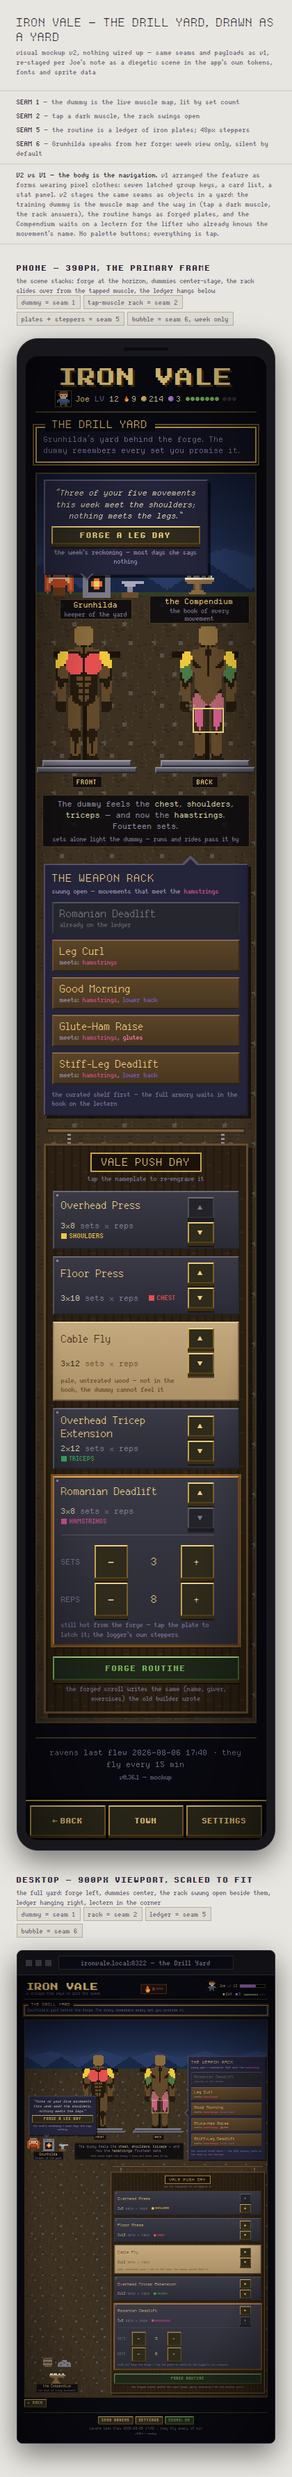
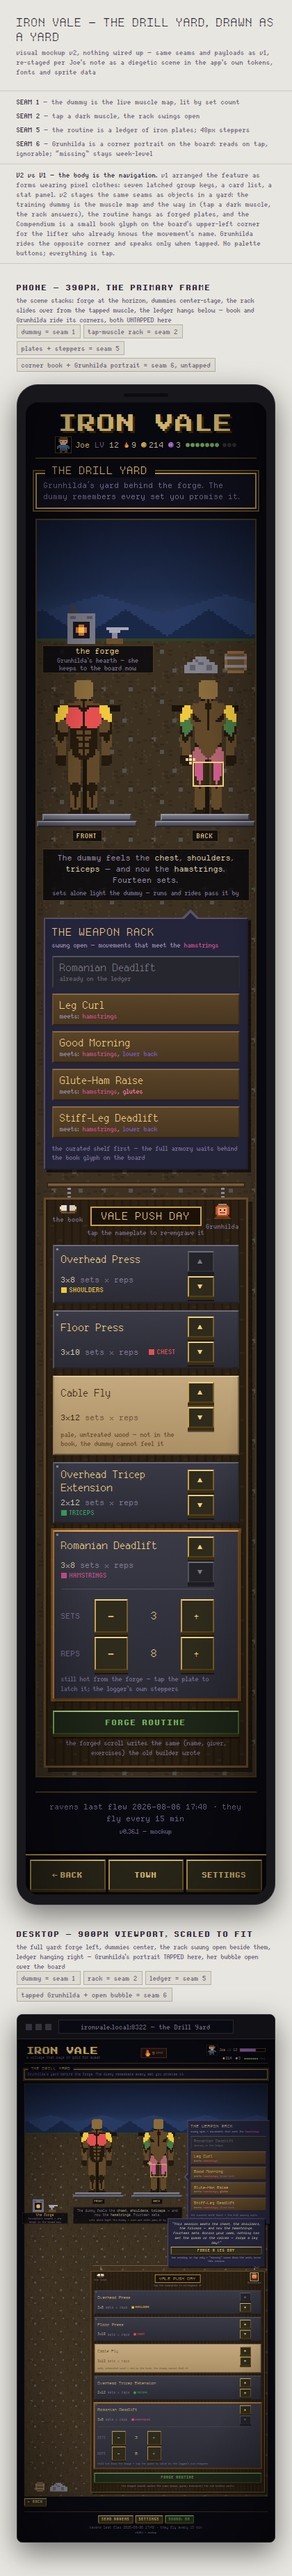
Refine scene mockup per review: corner book + tappable Grunhilda
Per Joe's 2026-08-06 review: the Compendium shrinks to a book glyph on the
board's upper-left and Grunhilda becomes a tap-only portrait opposite it.

Changed region(s): [[0.031, 0.0, 0.9595, 0.998], [0.0929, 0.9357, 0.2786, 0.998]]

diff --git a/docs/mockups/routine-builder-scene.html b/docs/mockups/routine-builder-scene.html
@@ -191,13 +191,14 @@ body { margin:0; background:var(--wall); color:var(--note); font-family:'quanta-
 @keyframes glintBlink { 0% { opacity:1; } 50% { opacity:0.25; } }
 
 /* Grunhilda's bubble — the fenn-bubble idiom from town.js/style.css.
-   It floats in the sky above her, tail down, like the town's deed bubbles. */
-.iv .gbubble-wrap { position:absolute; top:8px; left:10px; z-index:50; width:236px; max-width:78vw; }
+   TAPPED STATE ONLY: it opens anchored to her portrait glyph on the board's
+   upper-right corner, tail pointing down at her. Untapped, there is no bubble. */
+.iv .gbubble-wrap { position:absolute; right:0; bottom:calc(100% - 8px); z-index:50; width:340px; max-width:92vw; }
 .iv .gbubble { position:relative; padding:9px 9px 10px; background:var(--surface-raised); border:2px solid;
   border-color:var(--edge-lit) var(--edge-shade) var(--edge-shade) var(--edge-lit); box-shadow:4px 4px 0 rgba(0,0,0,0.6); }
-.iv .gbubble::after, .iv .gbubble::before { content:''; position:absolute; top:100%; left:26%; border:10px solid transparent; }
-.iv .gbubble::after { border-top-color:var(--edge-lit); margin-left:-10px; }
-.iv .gbubble::before { border-top-color:var(--surface-raised); margin-left:-8px; border-width:8px; margin-top:-1px; z-index:1; }
+.iv .gbubble::after, .iv .gbubble::before { content:''; position:absolute; top:100%; border:10px solid transparent; }
+.iv .gbubble::after { border-top-color:var(--edge-lit); left:auto; right:16px; }
+.iv .gbubble::before { border-top-color:var(--surface-raised); left:auto; right:18px; border-width:8px; margin-top:-1px; z-index:1; }
 .iv .gbubble .fb-line { display:block; font-style:italic; color:var(--ink); font-family:var(--font-body); font-size:var(--type-body);
   line-height:1.35; text-align:center; margin-bottom:7px; }
 .iv .gbubble .btn { display:block; width:100%; }
@@ -235,8 +236,16 @@ body { margin:0; background:var(--wall); color:var(--note); font-family:'quanta-
 .iv .ledger-beam { height:8px; margin:0 4px; background:linear-gradient(180deg,#8a6a40,#5a4428); border:2px solid #34251a; }
 .iv .ledger-hang { display:flex; justify-content:space-between; padding:0 34px; height:14px; }
 .iv .ledger-hang i { width:5px; height:100%; background:repeating-linear-gradient(180deg,#8a8a9a 0 3px, rgba(0,0,0,0) 3px 6px); }
-.iv .board { border:3px solid #6a4e2c; background-color:#2b2013; box-shadow:6px 6px 0 rgba(0,0,0,0.5); padding:10px 10px 12px; }
-.iv .board-name { text-align:center; margin:0 auto 4px; }
+.iv .board { position:relative; border:3px solid #6a4e2c; background-color:#2b2013; box-shadow:6px 6px 0 rgba(0,0,0,0.5); padding:10px 10px 12px; }
+/* corner glyphs on the board — the same weight class as the app's ✕ close
+   glyphs (style.css .lens-box-close: absolute, top:4px, bare, fine padding) */
+.iv .board-glyph { position:absolute; top:4px; background:none; border:none; padding:2px 4px; cursor:pointer; line-height:0; text-align:center; z-index:2; }
+.iv .board-glyph.glyph-book { left:6px; }
+.iv .board-glyph.glyph-grun { right:6px; }
+.iv .board-glyph .g-cap { display:block; margin-top:2px; font-family:var(--font-fine); font-size:var(--type-fine); color:var(--dim); letter-spacing:0.5px; line-height:1.2; }
+.iv .board-glyph:hover .g-cap { color:var(--gold-bright); }
+.iv .board-glyph.tapped canvas { outline:2px solid var(--gold-bright); outline-offset:1px; }
+.iv .board-name { text-align:center; margin:0 auto 4px; padding-inline:44px; }
 .iv .board-name .np { display:inline-block; border:2px solid var(--gold); background:#1a1208; color:var(--gold-bright);
   font-family:var(--font-title); font-size:var(--type-title); letter-spacing:1px; text-transform:uppercase; padding:3px 14px; }
 .iv .board-name .fine { display:block; margin-top:3px; color:var(--dim); }
@@ -272,15 +281,13 @@ body { margin:0; background:var(--wall); color:var(--note); font-family:'quanta-
 .iv .floor { margin-top:16px; position:relative; }
 .iv-phone .floor .rack { margin:24px 2px 0; }
 .iv-phone .floor .ledger { margin:18px 2px 0; }
-.iv-phone .lectern-shift { transform:translateY(6px); }
-.iv-desktop .stage-row { display:flex; justify-content:center; align-items:flex-end; gap:14px; margin-top:-52px; position:relative; z-index:2; }
+.iv-desktop .stage-row { display:flex; justify-content:center; align-items:flex-end; gap:18px; margin-top:-52px; position:relative; z-index:2; }
 .iv-desktop .stage-row .forge-spot { flex-shrink:0; }
 .iv-desktop .stage-row .stage { margin-top:0; }
-.iv-desktop .floor { display:grid; grid-template-columns:210px minmax(0,1fr); gap:0 18px; align-items:end; margin-top:20px; }
-.iv-desktop .floor .ledger { max-width:540px; justify-self:end; width:100%; }
-.iv-desktop .gbubble-wrap { top:265px; left:14px; }
+.iv-desktop .floor { display:grid; grid-template-columns:170px minmax(0,1fr); gap:0 18px; align-items:end; margin-top:142px; position:relative; z-index:3; }
+.iv-desktop .floor .ledger { max-width:610px; justify-self:end; width:100%; }
 .iv-desktop .corner-props { text-align:center; padding-bottom:4px; }
-.iv-desktop .corner-props .prop-row { display:flex; justify-content:center; align-items:flex-end; gap:10px; margin-bottom:14px; }
+.iv-desktop .corner-props .prop-row { display:flex; justify-content:center; align-items:flex-end; gap:10px; }
 </style>
 
 <header class="mock-head">
@@ -291,18 +298,18 @@ body { margin:0; background:var(--wall); color:var(--note); font-family:'quanta-
   <span><b>SEAM 1</b> — the dummy is the live muscle map, lit by set count</span>
   <span><b>SEAM 2</b> — tap a dark muscle, the rack swings open</span>
   <span><b>SEAM 5</b> — the routine is a ledger of iron plates; 48px steppers</span>
-  <span><b>SEAM 6</b> — Grunhilda speaks from her forge: week view only, silent by default</span>
+  <span><b>SEAM 6</b> — Grunhilda is a corner portrait on the board: reads on tap, ignorable; &ldquo;missing&rdquo; stays week-level</span>
 </div>
-<div class="vnote"><b>V2 vs V1 — the body is the navigation.</b> v1 arranged the feature as forms wearing pixel clothes: seven latched group keys, a card list, a stat panel. v2 stages the same seams as objects in a yard: the training dummy is the muscle map and the way in (tap a dark muscle, the rack answers), the routine hangs as forged plates, and the Compendium waits on a lectern for the lifter who already knows the movement's name. No palette buttons; everything is tap.</div>
+<div class="vnote"><b>V2 vs V1 — the body is the navigation.</b> v1 arranged the feature as forms wearing pixel clothes: seven latched group keys, a card list, a stat panel. v2 stages the same seams as objects in a yard: the training dummy is the muscle map and the way in (tap a dark muscle, the rack answers), the routine hangs as forged plates, and the Compendium is a small book glyph on the board's upper-left corner for the lifter who already knows the movement's name. Grunhilda rides the opposite corner and speaks only when tapped. No palette buttons; everything is tap.</div>
 
 <div class="frames">
 
   <section class="station phone-station">
     <div class="station-head">
       <div class="st-title">Phone — 390px, the primary frame</div>
-      <div class="st-sub">the scene stacks: forge at the horizon, dummies center-stage, the rack slides over from the tapped muscle, the ledger hangs below</div>
+      <div class="st-sub">the scene stacks: forge at the horizon, dummies center-stage, the rack slides over from the tapped muscle, the ledger hangs below &mdash; book and Grunhilda ride its corners, both UNTAPPED here</div>
       <div class="tag-chips">
-        <span>dummy = seam 1</span><span>tap-muscle rack = seam 2</span><span>plates + steppers = seam 5</span><span>bubble = seam 6, week only</span>
+        <span>dummy = seam 1</span><span>tap-muscle rack = seam 2</span><span>plates + steppers = seam 5</span><span>corner book + Grunhilda portrait = seam 6, untapped</span>
       </div>
     </div>
     <div class="phone-bezel">
@@ -315,9 +322,9 @@ body { margin:0; background:var(--wall); color:var(--note); font-family:'quanta-
   <section class="station desktop-station">
     <div class="station-head">
       <div class="st-title">Desktop — 900px viewport, scaled to fit</div>
-      <div class="st-sub">the full yard: forge left, dummies center, the rack swung open beside them, ledger hanging right, lectern in the corner</div>
+      <div class="st-sub">the full yard: forge left, dummies center, the rack swung open beside them, ledger hanging right &mdash; Grunhilda's portrait TAPPED here, her bubble open over the board</div>
       <div class="tag-chips">
-        <span>dummy = seam 1</span><span>rack = seam 2</span><span>ledger = seam 5</span><span>bubble = seam 6</span>
+        <span>dummy = seam 1</span><span>rack = seam 2</span><span>ledger = seam 5</span><span>tapped Grunhilda + open bubble = seam 6</span>
       </div>
     </div>
     <div class="gutter gutter-l" id="gutter-desktop"></div>
@@ -477,13 +484,8 @@ function muscleBox(side, character) {
 
 /* ===== sprites: grunhilda + hero + icons from pixel.js; the yard furniture hand-authored in the same char-map style ===== */
 const SPRITES = {
-  grunhilda: { p: { h: '#b84a20', H: '#d86a30', f: '#e0b088', K: '#1a1410', m: '#c04030', i: '#8a8a9a', d: '#6a3a18' }, r: [
-    '................', '....iiiiiiii....', '...hhhhhhhhhh...', '..hHHHHHHHHHHh..',
-    '.hHffffffffffHh.', '.hHfKffffffKfHh.', '.hHffffffffffHh.', '.hHffmmmmmmffHh.',
-    '.hHfhhhhhhhhfHh.', '.hHhhhhhhhhhhHh.', '.hHh.hhhhhh.hHh.', '.hHh.dddddd.hHh.',
-    '.hhh.dddddd.hhh.', '..h..dddddd..h..', '.....dddddd.....', '................',
-  ]},
-  /* hand-authored: Grunhilda's yard forge — stone hearth, coals, anvil */
+  /* hand-authored: Grunhilda's yard forge — stone hearth, coals, anvil.
+     Her standing sprite left the yard: she now lives as grun_bust on the board. */
   yard_forge: { p: { s: '#5a5a68', S: '#7a7a88', k: '#181820', o: '#e07030', y: '#f0d060', m: '#3a3a46', i: '#8a8a9a', I: '#a8a8b8', w: '#6a4e2c' }, r: [
     '...mm.....................', '...mm.....................', '..mmmm....................',
     '..SSSSSSSSSS..............', '..SssSSSSssS..............', '..SSSSSSSSSS..............',
@@ -491,11 +493,17 @@ const SPRITES = {
     '..SSkoyyokSS.....IIII.....', '..SSkkookkSS......ii......', '..SSkkkkkkSS......ii......',
     '..SSSSSSSSSS....wwwwww....', '..SSSSSSSSSS....wwwwww....',
   ]},
-  /* hand-authored: the lectern in the corner, the Compendium open on it */
-  lectern: { p: { w: '#6a4e2c', W: '#8a6a40', p: '#e8e0cc', q: '#d6ccb2', k: '#2a2a34' }, r: [
-    '................', '................', '..ppkppp.qqkqq..', '.ppppppppqqqqqq.',
-    '.WWWWWWWWWWWWWW.', '..WWWWWWWWWWWW..', '.....wWWw.......', '.....wWWw.......',
-    '.....wWWw.......', '....WWWWWW......', '...WWWWWWWW.....',
+  /* hand-authored: the Compendium as a small corner glyph — the lectern's open
+     book alone, sized to the ✕-close weight class, pinned to the board */
+  book_glyph: { p: { w: '#6a4e2c', p: '#e8e0cc', q: '#d6ccb2', k: '#2a2a34' }, r: [
+    '............', '.ppppkkqqqq.', 'pppppkkqqqqq', 'pppppkkqqqqq',
+    'wppppkkqqqqw', 'wwwwwkkwwwww', '.wwwwwwwwww.',
+  ]},
+  /* hand-authored: Grunhilda's bust for the board's other corner — tap her to hear a reading */
+  grun_bust: { p: { h: '#b84a20', H: '#d86a30', f: '#e0b088', K: '#1a1410', m: '#c04030', i: '#8a8a9a', d: '#6a3a18' }, r: [
+    '...iiiiii...', '..hhhhhhhh..', '.hHHHHHHHHh.', '.hHffffffHh.',
+    '.hHfKffKfHh.', '.hHffffffHh.', '.hHfmmmmfHh.', '.hhffffffhh.',
+    '..hhhhhhhh..', '.dddddddddd.', 'dddddddddddd', '............',
   ]},
   hero: { p: { h: '#6a4428', f: '#e0b088', t: '#4a6a9a', T: '#3a5a8a', l: '#5a4028', b: '#2a2a34' }, r: [
     '...hhhhhh...', '..hhhhhhhh..', '..hffffffh..', '..hfbffbfh..', '...ffffff...',
@@ -617,25 +625,29 @@ function dummyHtml(side, scale, tapped) {
 }
 
 function bubbleHtml() {
-  return `<div class="gbubble-wrap" data-seam="6" data-tag="SEAM 6|Grunhilda is IN the yard, by her forge; her bubble is the town's deed-bubble idiom, carries the WEEK-level reckoning only, counts and gaps, always with a verb, silent by default"><div class="gbubble">
-    <span class="fb-line">&ldquo;Three of your five movements this week meet the shoulders; nothing meets the legs.&rdquo;</span>
+  return `<div class="gbubble-wrap" data-seam="6" data-tag="SEAM 6|ON TAP ONLY — ignorable: her portrait was tapped, so the deed-bubble idiom opens anchored to it, tail on the portrait. The session line only describes; the 'missing' clause is the WEEK's reckoning (BUILDER.md §1) — counts and gaps, always with a verb"><div class="gbubble">
+    <span class="fb-line">&ldquo;This session meets the chest, the shoulders, the triceps &mdash; and now the hamstrings. Fourteen sets. Across your week, nothing has met the quads or the calves &mdash; forge a leg day?&rdquo;</span>
     <button class="btn small" style="display:block;width:100%">FORGE A LEG DAY</button>
-    <span class="fine week-note">the week&rsquo;s reckoning &mdash; most days she says nothing</span>
+    <span class="fine week-note">her reading, on tap only &mdash; &ldquo;missing&rdquo; comes from the week, never this session</span>
   </div></div>`;
 }
 
-function forgeSpot(forgePx, grunPx) {
+function forgeSpot(forgePx) {
   return `<div class="spot forge-spot">
-    <div class="forge-row">${spriteTag('grunhilda', grunPx)}${spriteTag('yard_forge', forgePx)}</div>
-    <span class="splate">Grunhilda<small>keeper of the yard</small></span>
+    <div class="forge-row">${spriteTag('yard_forge', forgePx)}</div>
+    <span class="splate">the forge<small>Grunhilda&rsquo;s hearth &mdash; she keeps to the board now</small></span>
   </div>`;
 }
 
-function lecternSpot(px, cls) {
-  return `<div class="spot tappable ${cls || ''}" data-tag="THE BOOK|the quiet second path: tap the lectern for the Compendium's classic search and browse of every movement — there for the lifter who already knows the name">
-    ${spriteTag('lectern', px)}
-    <span class="splate">the Compendium<small>the book of every movement</small></span>
-  </div>`;
+function boardGlyphs(grunTapped) {
+  const grunTag = grunTapped ? '' :
+    ` data-tag="SEAM 6|UNTAPPED state: Grunhilda is a small portrait on the board's upper-right — out of the way, ignorable; tap or click her for a reading or evaluation of the workout (the desktop frame shows the bubble open)"`;
+  return `<button class="board-glyph glyph-book" aria-label="the book — browse all movements" data-tag="THE BOOK|the Compendium shrunk to a corner glyph — the book — browse all movements. Upper-left of the board, same weight class as the app's ✕ close glyphs; the classic search for the lifter who already knows the name">
+    ${spriteTag('book_glyph', 24)}<span class="g-cap">the book</span>
+  </button>
+  <button class="board-glyph glyph-grun ${grunTapped ? 'tapped' : ''}" aria-label="Grunhilda — tap for a reading of this workout"${grunTag}>
+    ${spriteTag('grun_bust', 24)}<span class="g-cap">Grunhilda</span>
+  </button>`;
 }
 
 function stageHtml(scale) {
@@ -655,7 +667,7 @@ function rackHtml(tailClass, tailStyle) {
       <span class="qname">${r.name}</span>
       <span class="meets">${r.taken ? 'already on the ledger' : meetsLine(r.meets)}</span>
     </button>`).join('')}
-    <div class="rk-foot">the curated shelf first &mdash; the full armory waits in the book on the lectern</div>
+    <div class="rk-foot">the curated shelf first &mdash; the full armory waits behind the book glyph on the board</div>
   </div>`;
 }
 
@@ -677,11 +689,14 @@ function plateHtml(p, i, n) {
   </div>`;
 }
 
-function ledgerHtml() {
+function ledgerHtml(opts) {
+  opts = opts || {};
   return `<div class="ledger" data-seam="5" data-tag="SEAM 5|the routine is a physical ledger hanging beside the dummy: each movement an iron plate stamped with name, sets×reps and one muscle rune; ▲/▼ latches, no drag; the fresh Romanian Deadlift plate landed unlatched on the logger's 48px steppers; Cable Fly rides in pale wood — the honest off-catalog state">
+    ${opts.grunTapped ? bubbleHtml() : ''}
     <div class="ledger-beam"></div>
     <div class="ledger-hang"><i></i><i></i></div>
     <div class="board">
+      ${boardGlyphs(!!opts.grunTapped)}
       <div class="board-name"><span class="np">Vale Push Day</span><span class="fine">tap the nameplate to re-engrave it</span></div>
       ${LEDGER.map((p, i) => plateHtml(p, i, LEDGER.length)).join('')}
       <button class="btn wide green">FORGE ROUTINE</button>
@@ -757,11 +772,10 @@ function phoneScreen() {
     </div>
     <div class="yard" data-seam="A" data-tag="SEAM A|its own door off the town square — and past the door, the screen IS the yard: the town-scene idiom (sky, ground, standing sprites) instead of a settings page">
       <div class="sky"><div class="mtns" data-fill="mtns"></div></div>
-      ${bubbleHtml()}
       <div class="ground" data-fill="dirt">
         <div class="hrow">
-          ${forgeSpot(104, 48)}
-          ${lecternSpot(48, 'lectern-shift')}
+          ${forgeSpot(104)}
+          <div class="spot"><div class="forge-row">${spriteTag('stone_pile', 56)}${spriteTag('barrel', 40)}</div></div>
         </div>
         ${stageHtml(3)}
         <div class="floor">
@@ -782,21 +796,19 @@ function desktopScreen() {
       <span class="win-title">The Drill Yard</span>
       <div class="muted">Grunhilda&rsquo;s yard behind the forge. The dummy remembers every set you promise it.</div>
     </div>
-    <div class="yard" data-seam="A" data-tag="SEAM A|one tap from the town square; the whole screen is the yard — forge left, dummies center, rack swung open beside them, ledger hanging right, the book in the corner">
+    <div class="yard" data-seam="A" data-tag="SEAM A|one tap from the town square; the whole screen is the yard — forge left, dummies center, rack swung open beside them, ledger hanging right with the book and Grunhilda riding its corners">
       <div class="sky"><div class="mtns" data-fill="mtns"></div></div>
-      ${bubbleHtml()}
       <div class="ground" data-fill="dirt">
         <div class="stage-row">
-          ${forgeSpot(104, 56)}
+          ${forgeSpot(104)}
           <div style="max-width:400px">${stageHtml(4)}</div>
-          ${rackHtml('tail-left', '--taily:196px;width:272px;flex-shrink:0;align-self:flex-end')}
+          ${rackHtml('tail-left', '--taily:196px;width:288px;flex-shrink:0;align-self:flex-end')}
         </div>
         <div class="floor">
           <div class="corner-props">
-            <div class="prop-row">${spriteTag('barrel', 40)}${spriteTag('stone_pile', 56)}</div>
-            ${lecternSpot(64)}
+            <div class="prop-row">${spriteTag('barrel', 48)}${spriteTag('stone_pile', 70)}</div>
           </div>
-          ${ledgerHtml()}
+          ${ledgerHtml({ grunTapped: true })}
         </div>
       </div>
     </div>

diff --git a/docs/routine-builder-plan.md b/docs/routine-builder-plan.md
@@ -73,6 +73,23 @@ fallback after that is promoting the button to the top of Grunhilda's board
 rather than nested below her offers. But the stated goal wins: one obvious
 tap from the town, not a path you have to know.
 
+### Accepted presentation for seams 1–2: the builder is a scene
+
+Joe approved the scene-based v2 mockup on 2026-08-06 ("this looks really
+solid… a great starting point"), in line with his standing no-button-piles
+direction: place things in the world, don't stack controls. The presentation
+contract this fixes:
+
+- The builder screen is a **scene** — "the Drill Yard" in the town-scene
+  idiom (sky, ground, standing sprites), not a form.
+- The muscle dummy **is** the navigation: tap a dark muscle and a rack opens
+  with the movements that meet it (seams 1–2). No group-key palette.
+- The routine is a **physical ledger board** of iron plates hanging in the
+  yard (seam 5's cards, staged as objects).
+
+Visual companion: `docs/mockups/routine-builder-scene.html` (screenshots
+beside it in the same directory).
+
 ## What the research says
 
 Nine apps surveyed (Hevy, Strong, Boostcamp, Fitbod, JuggernautAI, Alpha
@@ -188,6 +205,14 @@ the constraints are what make it survivable.**
   is the model, and the town already has the bubble machinery if her weekly
   observation should also appear at the forge (`static/js/town.js:523`
   `NUDGE_ANCHORS`, `:556` `showCounselNudgeIfDue`).
+- **Accepted placement (Joe, 2026-08-06): she is pull-based.** Grunhilda is
+  a small tappable portrait on the ledger board's upper-right corner; her
+  reading opens on tap and is otherwise absent — you can simply ignore her.
+  The Compendium's browse path is the matching small book glyph on the
+  board's upper-left (both in the weight class of the app's ✕ close glyphs).
+  The `BUILDER.md` §1 constraint applies inside her tapped reading too: the
+  session part only *describes* ("meets the chest, shoulders, triceps —
+  eleven sets"); any "missing" statement comes only from week-level data.
 
 So: no new mascot, no persistent chatter. Grunhilda, rarely, saying one true
 thing with a button attached.
@@ -271,9 +296,11 @@ old builder's survival.
 
 **Seam 6 — volume vs. own average, and Grunhilda speaks (medium).** The
 §2c self-comparison on the week rollup, plus the `.insight` block under the
-§4 contract. Requires the §7.1 decision (below); whichever way it goes, the
-`DOCTRINE.md` entry lands in the same commit. Model:
-`app/counsel_nudge.py`.
+§4 contract. Her surface is the accepted pull model above: the tapped
+portrait on the ledger board — reading on tap only, session part
+descriptive, "missing" clause week-level. Requires the §7.1 decision
+(below); whichever way it goes, the `DOCTRINE.md` entry lands in the same
+commit. Model: `app/counsel_nudge.py`.
 
 **Seam 7 — progression for custom routines (small-to-medium).** Today
 `programs._suggest` (`app/programs.py:158`) progresses built-ins via their
